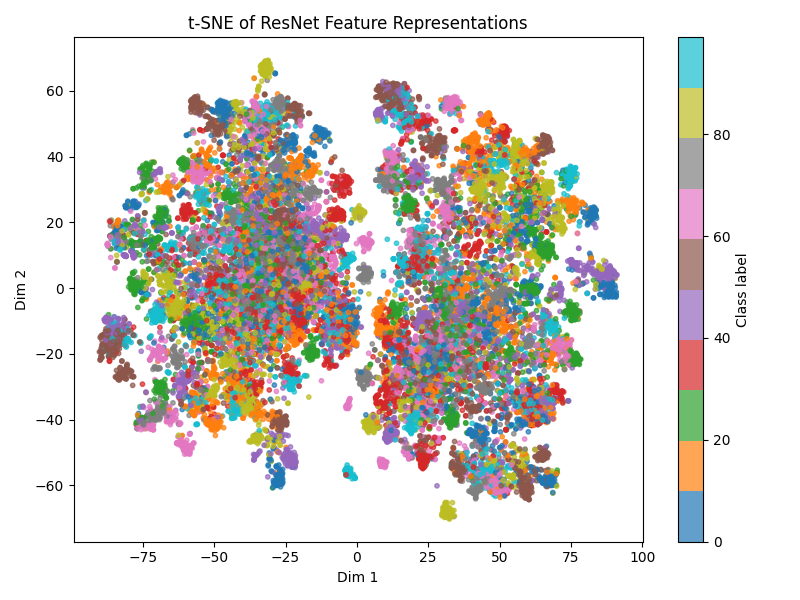
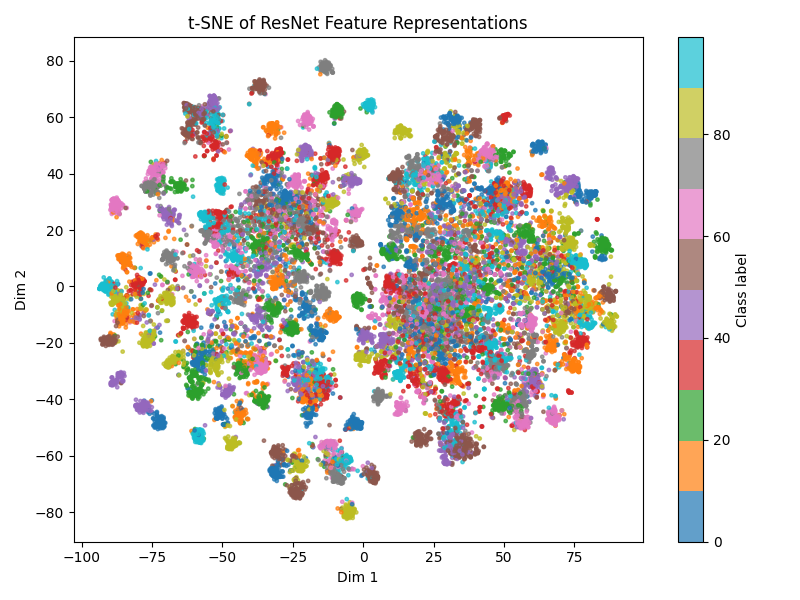
mixup

diff --git a/tsne.py b/tsne.py
@@ -10,7 +10,7 @@ from tqdm import tqdm
 from src.models.wide_resnet import Wide_ResNet
 from torchvision.datasets import STL10, CIFAR10, CIFAR100
 
-epochs     = 250
+epochs     = 400
 data_type  = "cifar100"
 model_type = "wide_resnet_28_10"
 device     = torch.device('cuda' if torch.cuda.is_available() else 'cpu')
@@ -18,7 +18,8 @@ device     = torch.device('cuda' if torch.cuda.is_available() else 'cpu')
 features_list = []
 labels_list = []
 
-augmentations = ["Original", "Mixup"]
+augmentations = ["Default", "Mixup", "Mixup-Curriculum"]
+# augmentations = ["Mixup-Curriculum"]
 
 for augment in augmentations:
     model_save_path = f"./logs/{model_type}/{augment}/{data_type}_{epochs}_0.pth"
@@ -71,7 +72,7 @@ for augment in augmentations:
     X_2d = tsne.fit_transform(X)
 
     plt.figure(figsize=(8, 6))
-    scatter = plt.scatter(X_2d[:, 0], X_2d[:, 1], c=y, cmap='tab10', s=10, alpha=0.7)
+    scatter = plt.scatter(X_2d[:, 0], X_2d[:, 1], c=y, cmap='tab10', s=6, alpha=0.7)
     plt.colorbar(scatter, label="Class label")
     plt.title("t-SNE of ResNet Feature Representations")
     plt.xlabel("Dim 1")
